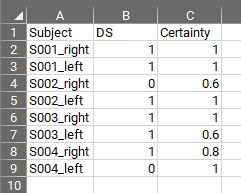
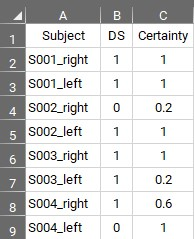
Fixed certainty formula

diff --git a/projectFtencoder.py b/projectFtencoder.py
@@ -53,13 +53,11 @@ class projectFtencoder(myProject.myProject):
             if y_hat_sum > (n_models/2):
                 y_hat_majority = 1
                 y_hat_label = 'Diagonal Sulcus detected'
-                votes = y_hat_sum
             else:
                 y_hat_majority = 0
                 y_hat_label = 'Diagonal Sulcus NOT detected'
-                votes = n_models - y_hat_sum
 
-            certainty = round(votes/n_models,1)
+            certainty = round(abs((y_hat_sum*2-n_models)/n_models),1)
 
             # Store data about predictions
             data['fnames'].append(fname)
@@ -67,8 +65,7 @@ class projectFtencoder(myProject.myProject):
             data['certainty'].append(certainty)
 
             # Terminal output for predictions
-            print('[INFO]{}: {} (certainty:{}%) '.format(fname, y_hat_label, round(certainty*100),0))
-            #print('[INFO]{}: {} (positive votes:{}/{})'.format(fname, y_hat_label, y_hat_sum, n_models))
+            print('[INFO]{}: {} (certainty:{}) '.format(fname, y_hat_label, certainty))
             y_hat_sum
 
         # Export results
